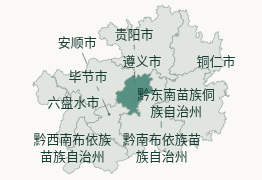
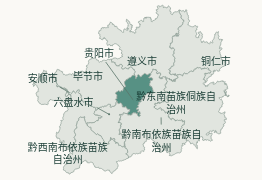
fix(travel): match city label size to national province names

diff --git a/apps/github-pwa/app/workspace/travel-city-map/label-layout.test.ts b/apps/github-pwa/app/workspace/travel-city-map/label-layout.test.ts
@@ -11,7 +11,8 @@ describe("complete city-map labels", () => {
     for (const width of [218, 250, 318, 540, 850]) {
       const layout = layoutCityMapLabels(map.regions, width);
       expect(layout.labels.map(l => l.lines.join("")).sort()).toEqual(map.regions.flatMap(r => r.city ? [r.city] : []).sort());
-      expect(layout.fontSize * width / 790).toBeGreaterThanOrEqual(13 - 0.001);
+      expect(layout.fontSize * width / 790).toBeGreaterThanOrEqual(10 - 0.001);
+      if (width === 850) expect(layout.fontSize).toBe(10); // National province labels.
       for (const [index, label] of layout.labels.entries()) {
         expect(label.x - label.width / 2).toBeGreaterThanOrEqual(0);
         expect(label.x + label.width / 2).toBeLessThanOrEqual(790);

diff --git a/apps/github-pwa/app/workspace/travel-city-map/label-layout.ts b/apps/github-pwa/app/workspace/travel-city-map/label-layout.ts
@@ -12,7 +12,8 @@ const MAP_HEIGHT = 540;
 // Extra vertical space is preferable to dropping names or shrinking the type.
 export function layoutCityMapLabels(regions: readonly RegionAnchor[], renderedWidth: number) {
   const unit = WIDTH / Math.max(160, Math.min(850, renderedWidth));
-  const fontSize = Math.max(14, 13 * unit);
+  // Match the national map's 10 SVG units on desktop; retain 10px on phones.
+  const fontSize = Math.max(10, 10 * unit);
   const padding = 3 * unit, gap = 4 * unit, margin = 6 * unit;
   const lineHeight = fontSize * 1.25;
   const charactersPerLine = Math.max(1, Math.floor((WIDTH * 0.36 - 2 * padding) / fontSize));

diff --git a/apps/github-pwa/app/workspace/travel-city-map/README.md b/apps/github-pwa/app/workspace/travel-city-map/README.md
@@ -39,7 +39,8 @@ geometry is imported into the client bundle. All maps total about 1.51 MB uncomp
 with each province below 100 KB. Failed map loads retain the complete city list.
 City names render in a separate top layer. `label-layout.ts` reserves each full
 name's bounds, moves colliding/edge labels with leaders to their original anchors,
-and maintains at least 13px screen type when resized. Long names wrap in full;
+and matches the national labels’ 10 SVG units on desktop with a 10px screen
+floor on narrow maps. Long names wrap in full;
 crowded narrow maps can grow vertically. No names are hidden or truncated.
 Names use plain text without a white background, outline or shadow. Leaders are
 masked behind reserved text bounds without covering the underlying geography.
